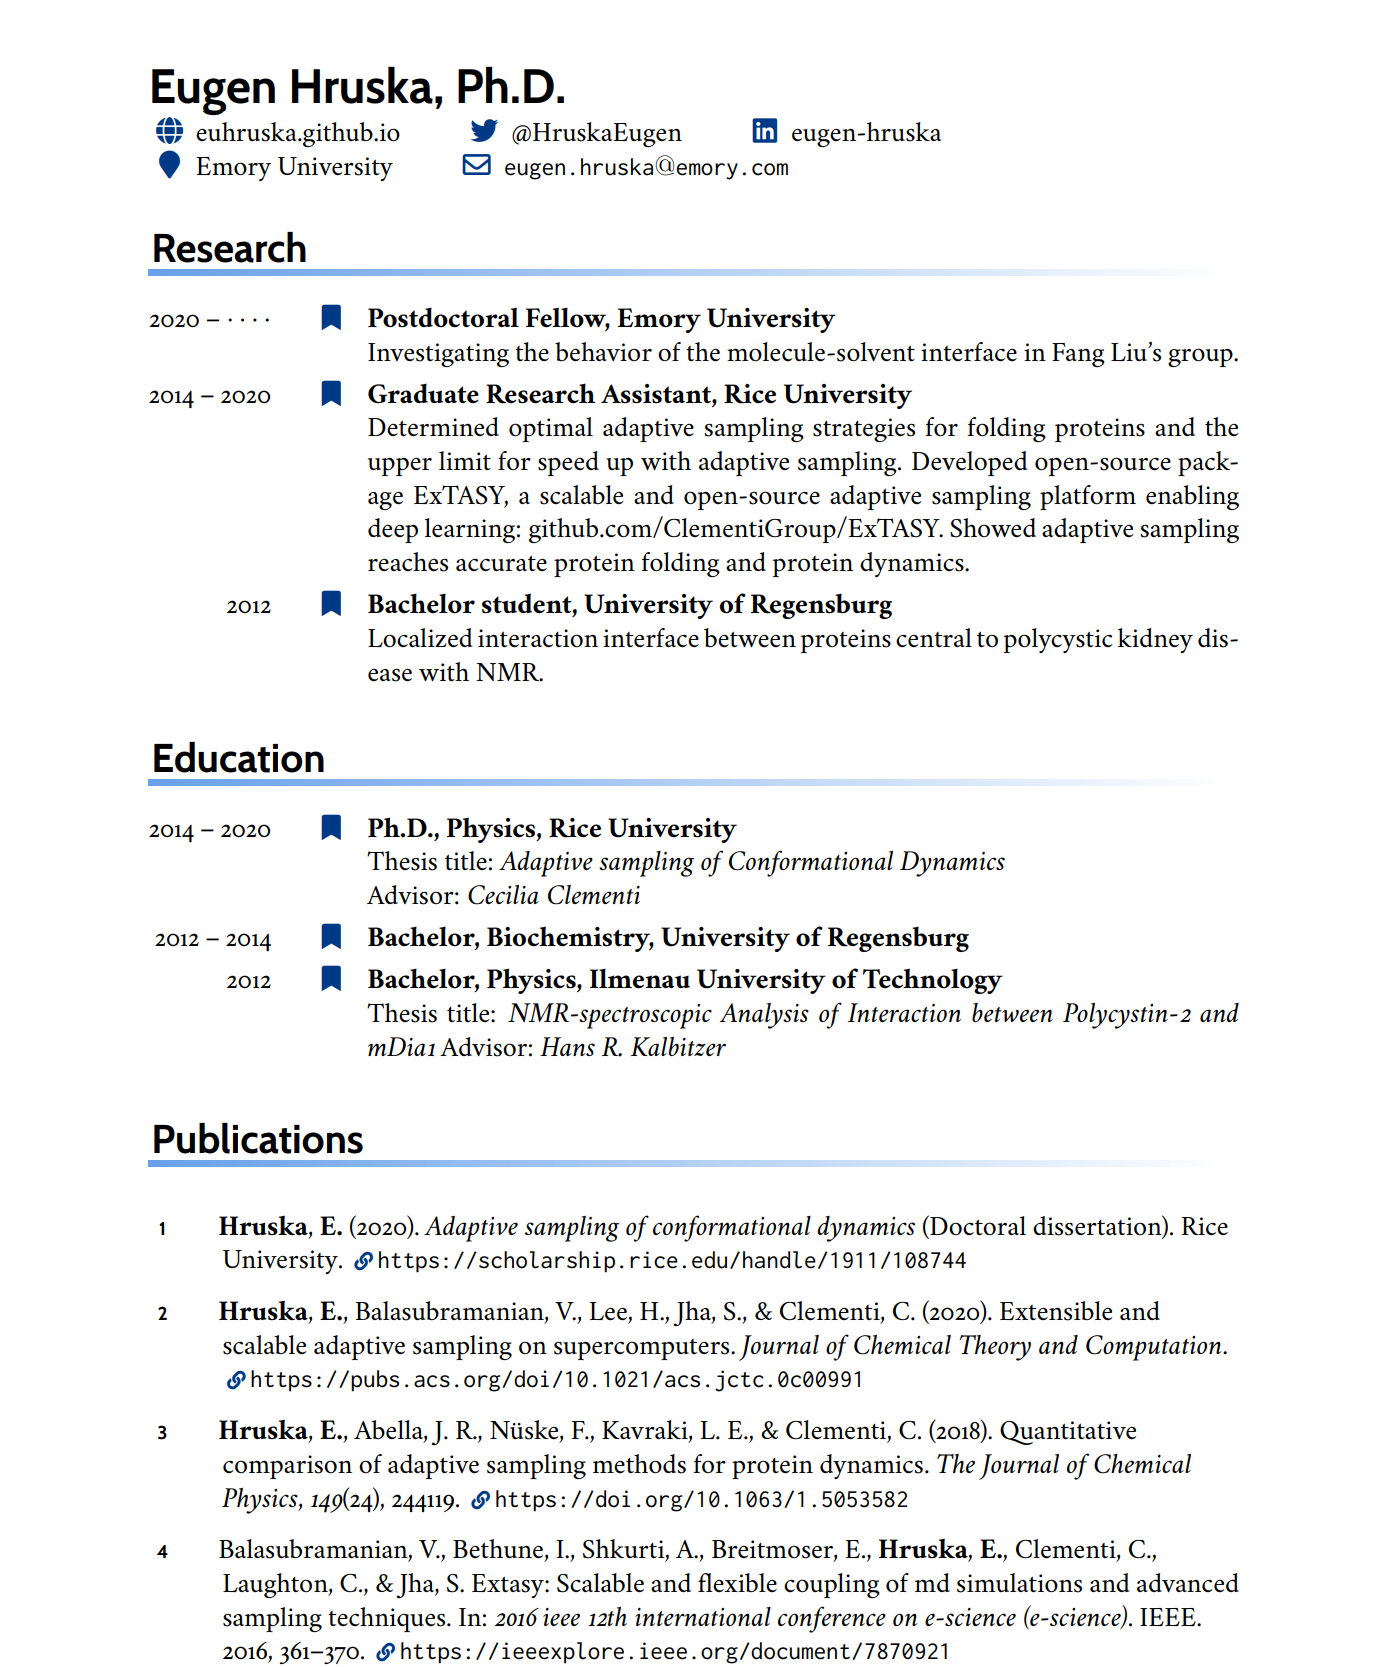
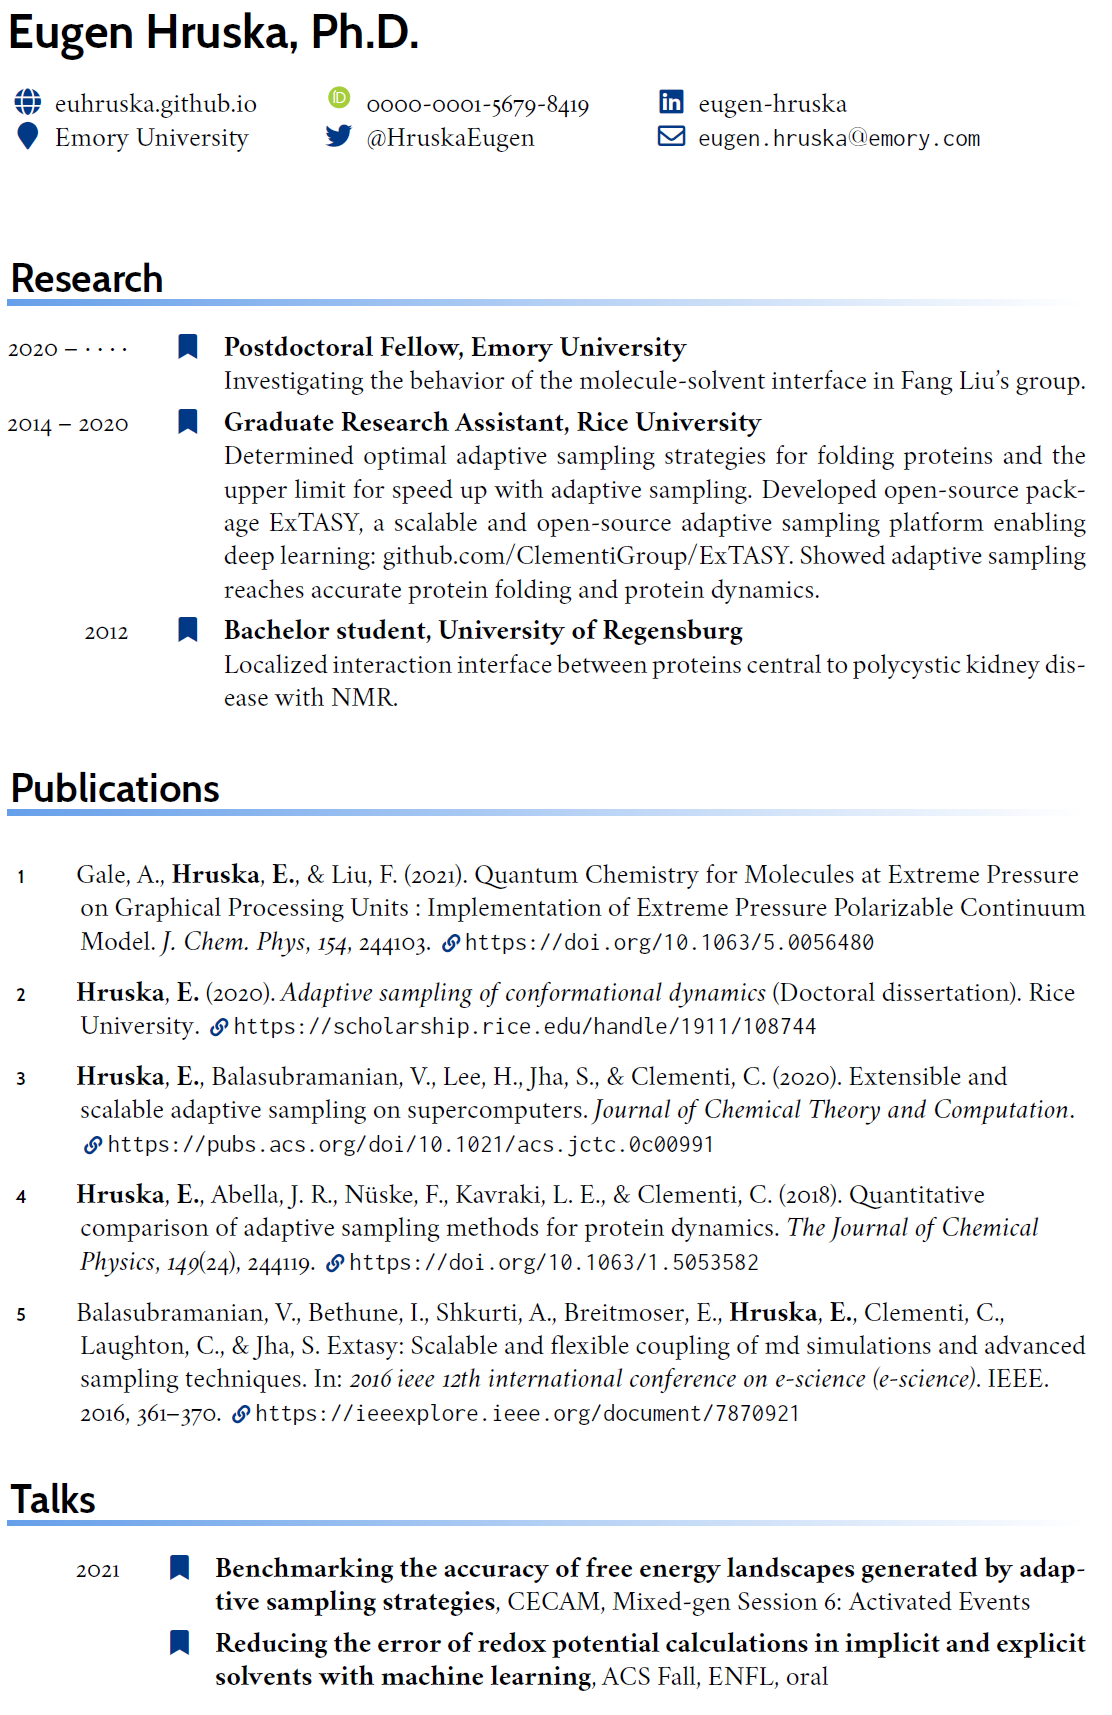
cv update

Changed region(s): [[0.0, 0.0, 0.9784, 0.9982], [0.8561, 0.0624, 0.8867, 0.0936]]

diff --git a/cv.html b/cv.html
@@ -63,11 +63,13 @@
 
     <div class="main" id="rmmain" id="ref">
       <br>
-      <h1><a href="assets/Hruska_CV.pdf">Download CV</a></h1>
+      <h1><a href="https://github.com/euhruska/CV-latex/raw/master/cv.pdf">Download CV</a></h1>
+      <h1><a href="https://github.com/euhruska/CV-latex/raw/master/resume.pdf">Download resume</a></h1>
       <figure align="center" class="cent">
             <img src="assets/cv1.png" alt="CV" width="90%">
-            <img src="assets/cv-2.png" alt="CV" width="90%">
-          </figure>
+            <img src="assets/cv2.png" alt="CV" width="90%">
+            <img src="assets/cv3.png" alt="CV" width="90%">
+      </figure>
 
 
 
